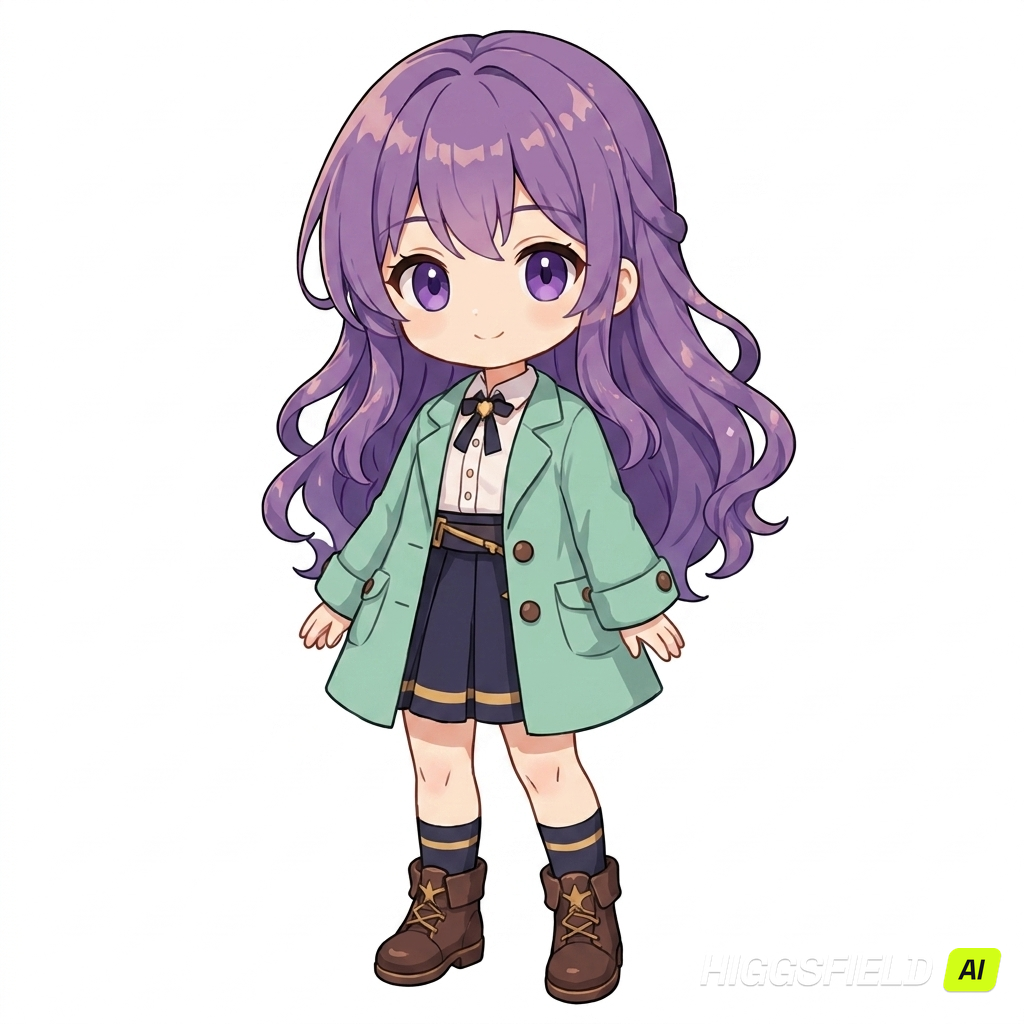
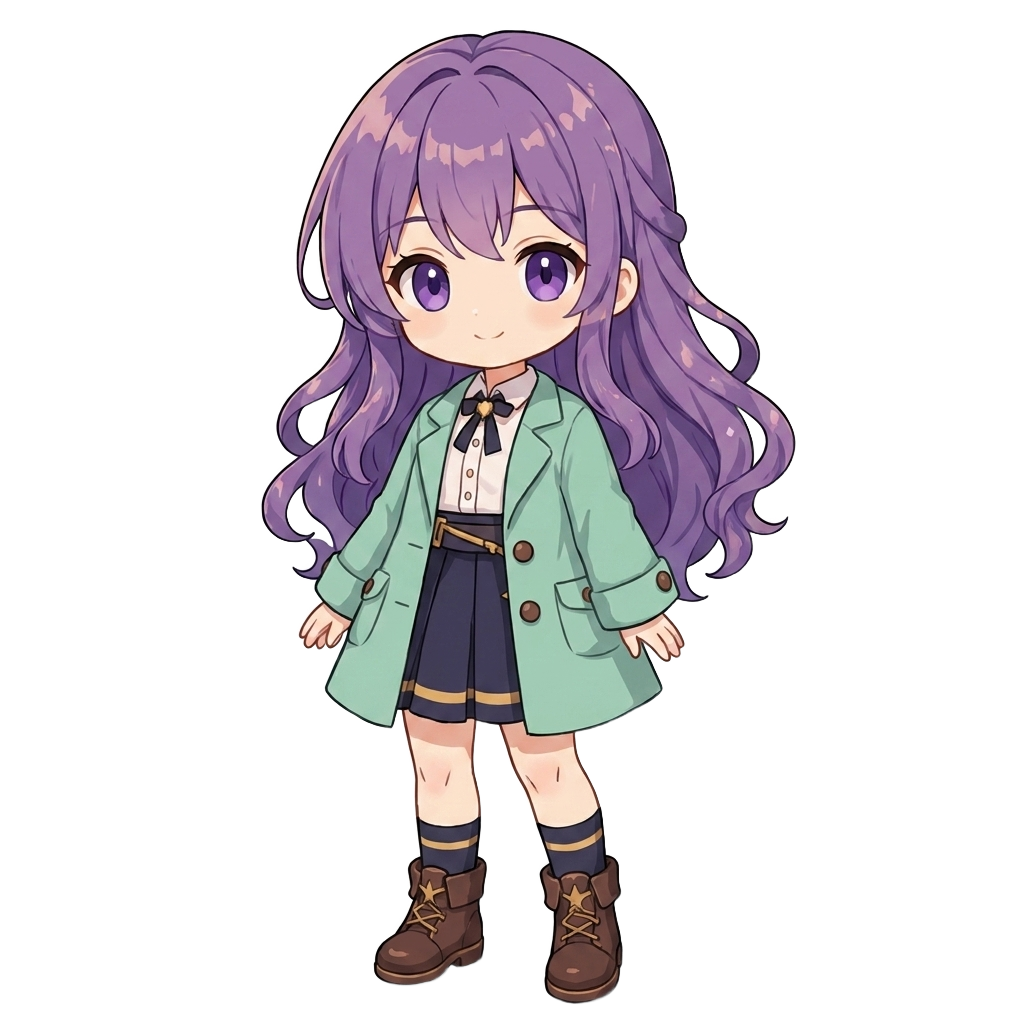
v23

diff --git a/src/screens/ProfileScreen.jsx b/src/screens/ProfileScreen.jsx
@@ -176,7 +176,31 @@ function WardrobePanel({ avatarGender, equipped, activeSet, collectionIds, onEqu
           </div>
         )}
 
-        {['outfit', 'accessory', 'frame'].includes(cat) && (
+        {cat === 'outfit' && (
+          <div className="grid grid-cols-2 gap-2">
+            {WARDROBE.outfit.map(item => {
+              const owned = item.owned || collectionIds.has(item.id)
+              const active = (equipped.outfit ?? 'academy') === item.id
+              return (
+                <button
+                  key={item.id}
+                  className={`academy-outfit-set ${active ? 'is-active' : ''} ${owned ? '' : 'is-locked'}`}
+                  onClick={() => owned && onEquipCosmetic('outfit', item.id)}
+                >
+                  <OutfitPreview
+                    gender={avatarGender}
+                    outfitId={item.id}
+                    className="academy-outfit-set__avatar"
+                  />
+                  <b>{item.name}</b>
+                  <small>{owned ? item.desc : '未解鎖'}</small>
+                </button>
+              )
+            })}
+          </div>
+        )}
+
+        {['accessory', 'frame'].includes(cat) && (
           <div className="grid grid-cols-2 gap-2">
             {WARDROBE[cat].map(item => {
               const owned = item.owned || collectionIds.has(item.id)

diff --git a/src/index.css b/src/index.css
@@ -1003,10 +1003,10 @@ img.academy-home-hero__character {
   background: transparent;
 }
 
-/* 影片：白底 letterbox + multiply 讓白色消失融入背景 */
+/* 影片：黑底 letterbox 用 screen 讓黑色透明融入背景 */
 video.academy-home-hero__character {
-  background: white;
-  mix-blend-mode: multiply;
+  background: transparent;
+  mix-blend-mode: screen;
 }
 
 .academy-home-hero__character--tap {